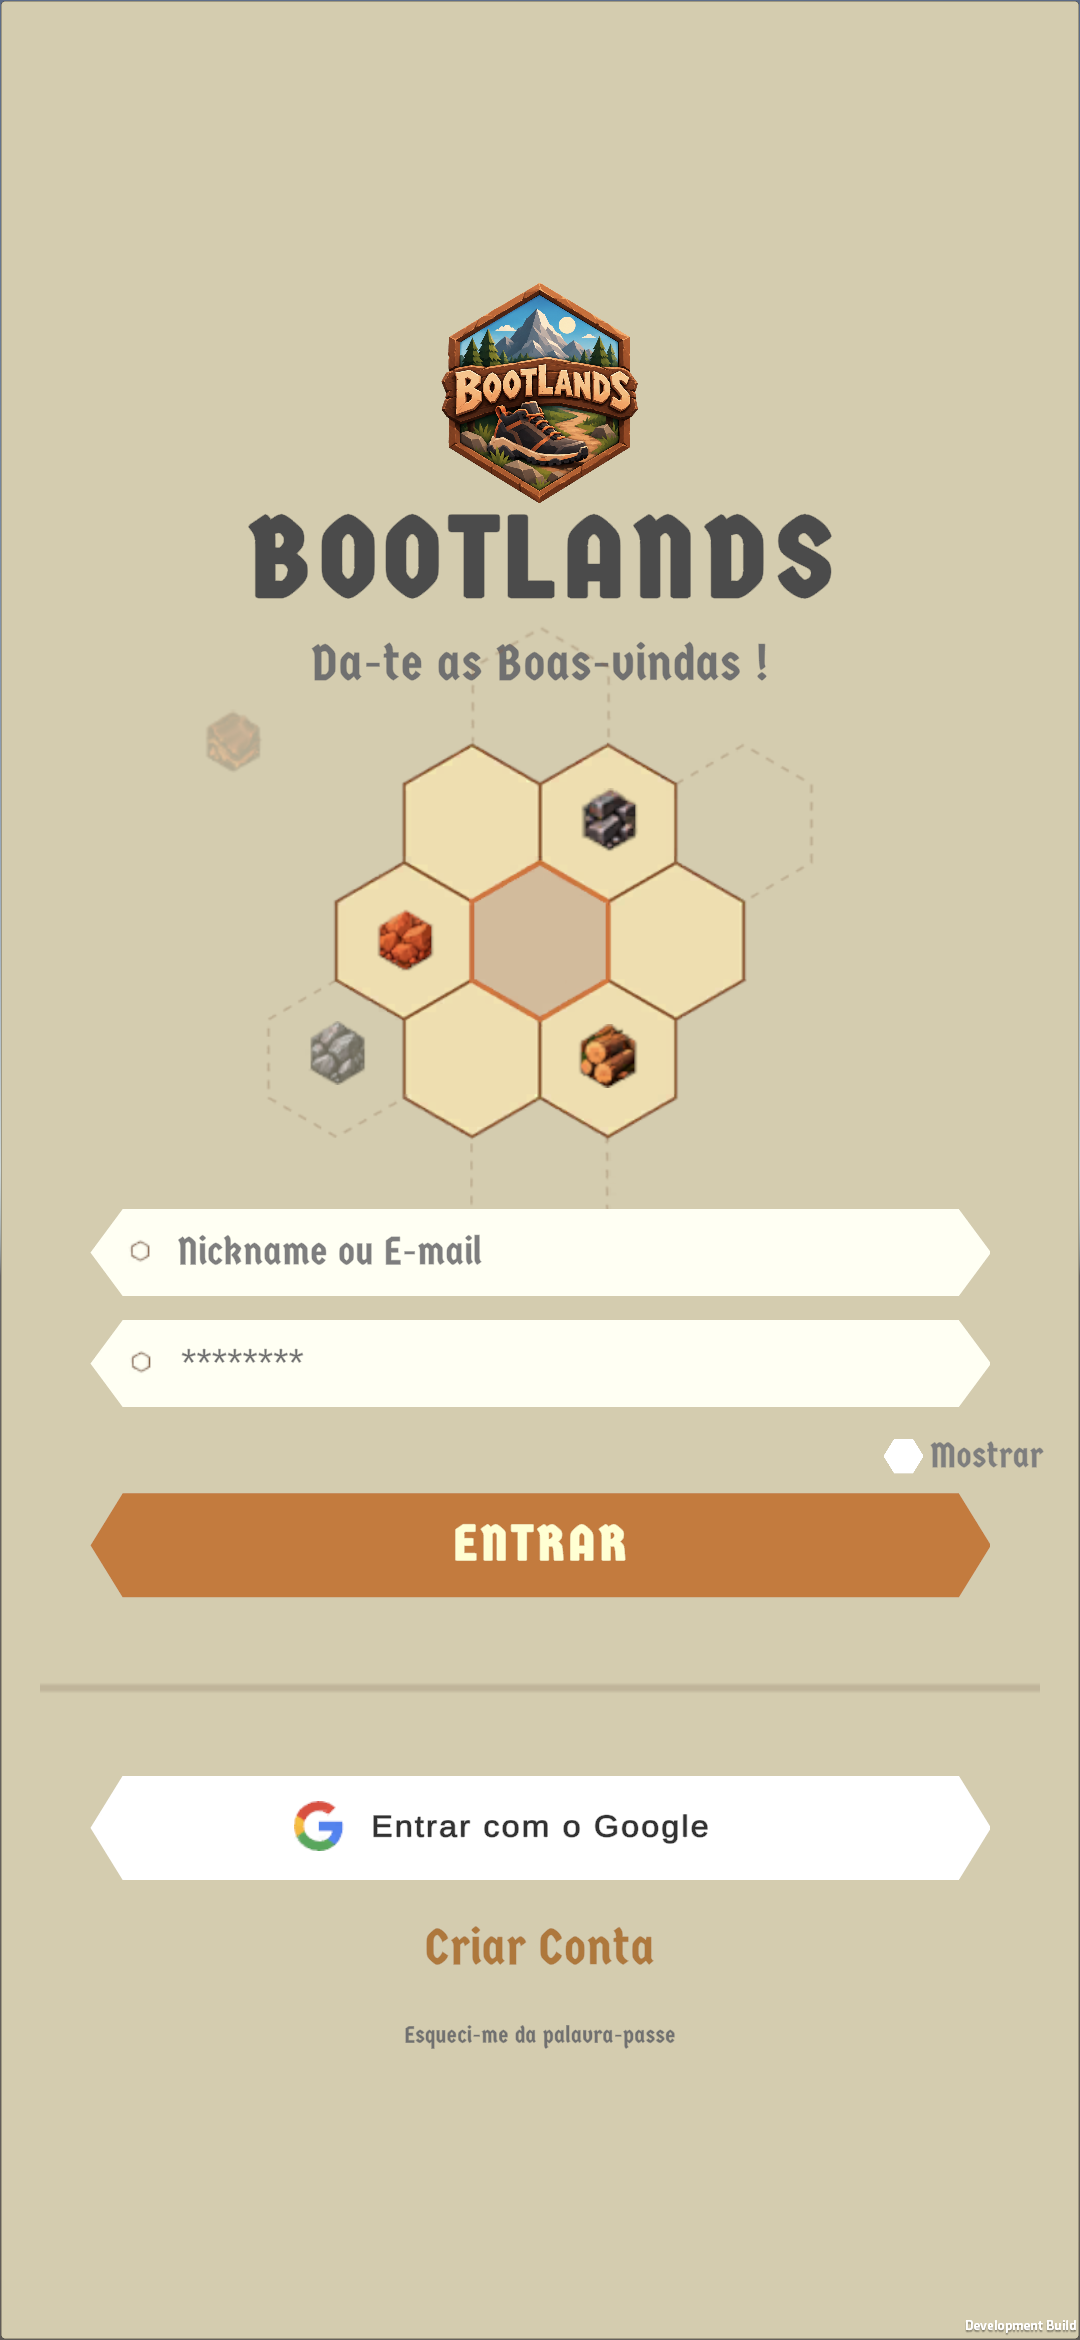
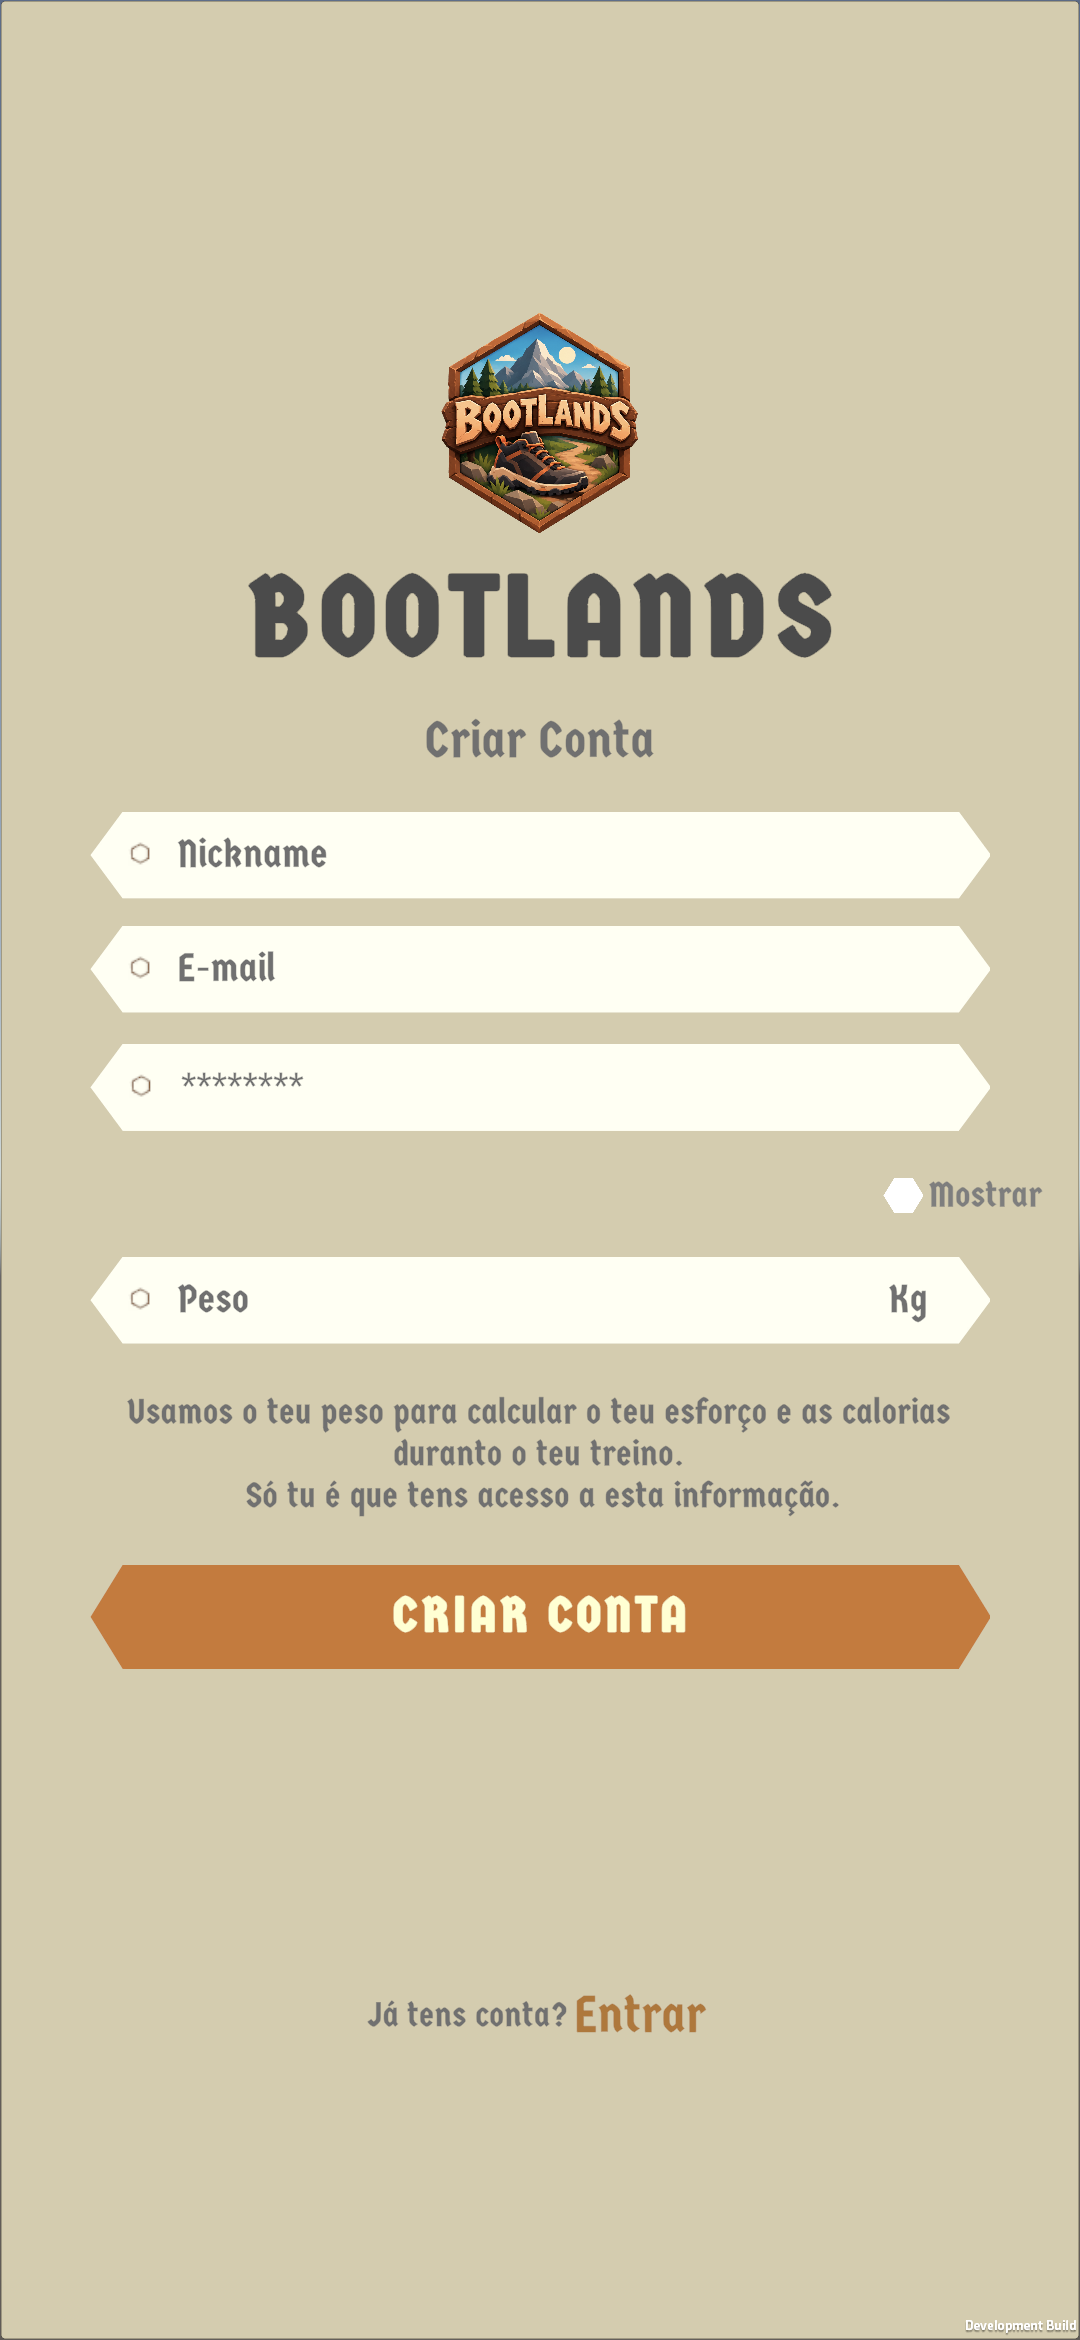
Atualiza screenshot da app Android (ecra de Criar Conta)

Changed region(s): [[0.0917, 0.1248, 0.9472, 0.7175], [0.0917, 0.7487, 0.9167, 0.8735]]

diff --git a/index.html b/index.html
@@ -120,7 +120,7 @@
         <h2 id="landing-android" class="landing-h2">Uma app Android a caminho</h2>
         <p class="landing-sub">O Bootlands está a ganhar uma app nativa para Android, sem depender do browser. O motivo é simples: com o telemóvel bloqueado ou fora da app, o GPS de qualquer site deixa de contar o treino. A app resolve isso na raiz, lendo o GPS mesmo com o ecrã desligado.</p>
         <p class="landing-sub">Esta semana já testámos, num telemóvel real, o percurso a continuar a ser registado com o ecrã apagado. A parte mais difícil já funciona. É a mesma conta e o mesmo progresso de sempre, só chega a uma forma nova de jogar. Ainda sem data marcada.</p>
-        <img src="assets/screenshots/android-login.png?v=20261005" width="440" height="953" alt="Ecrã de login da app Android do Bootlands, ainda em testes" class="landing-screenshot" loading="lazy">
+        <img src="assets/screenshots/android-login.png?v=20261005b" width="440" height="953" alt="Ecrã de criar conta da app Android do Bootlands, ainda em testes" class="landing-screenshot" loading="lazy">
       </section>
 
       <section class="landing-section" aria-labelledby="landing-novidades">
